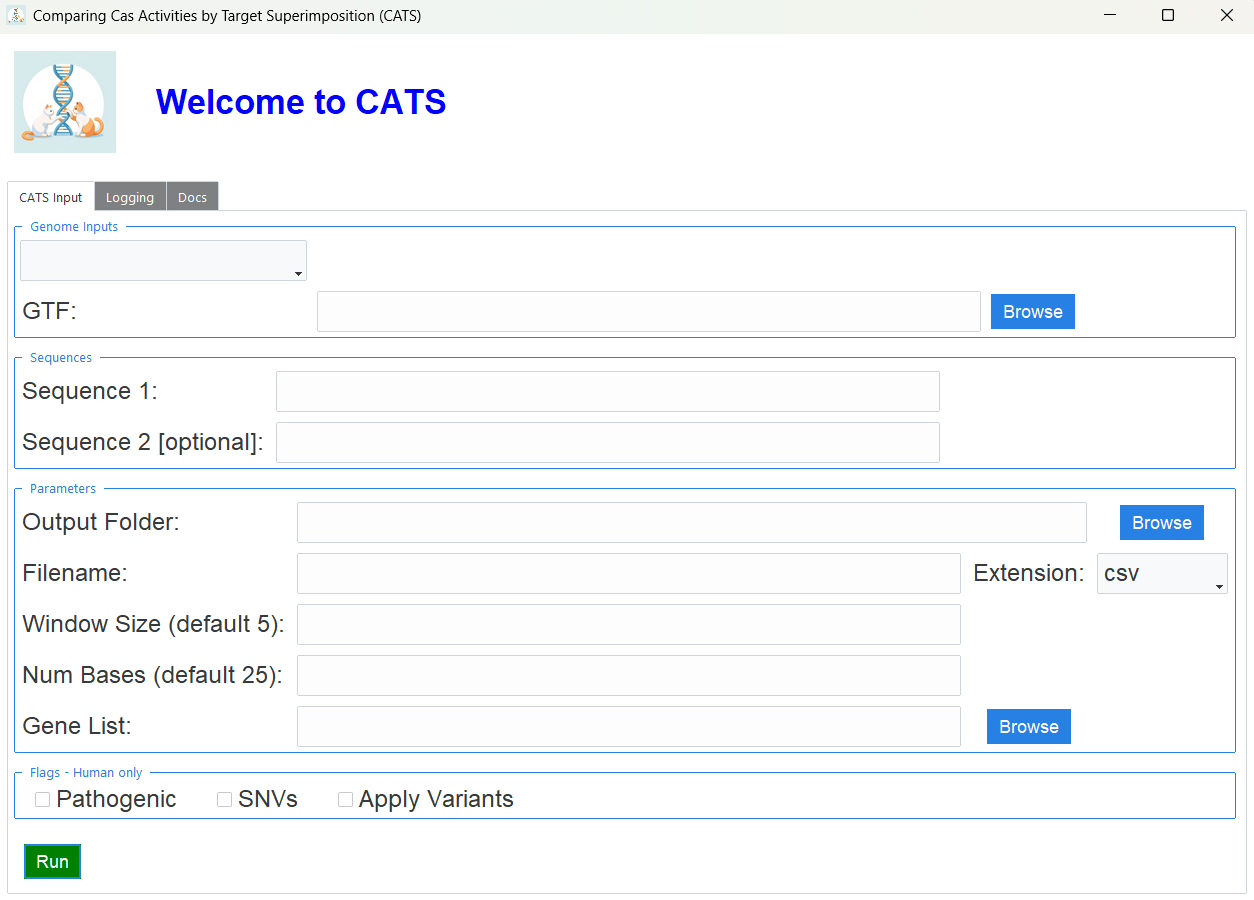
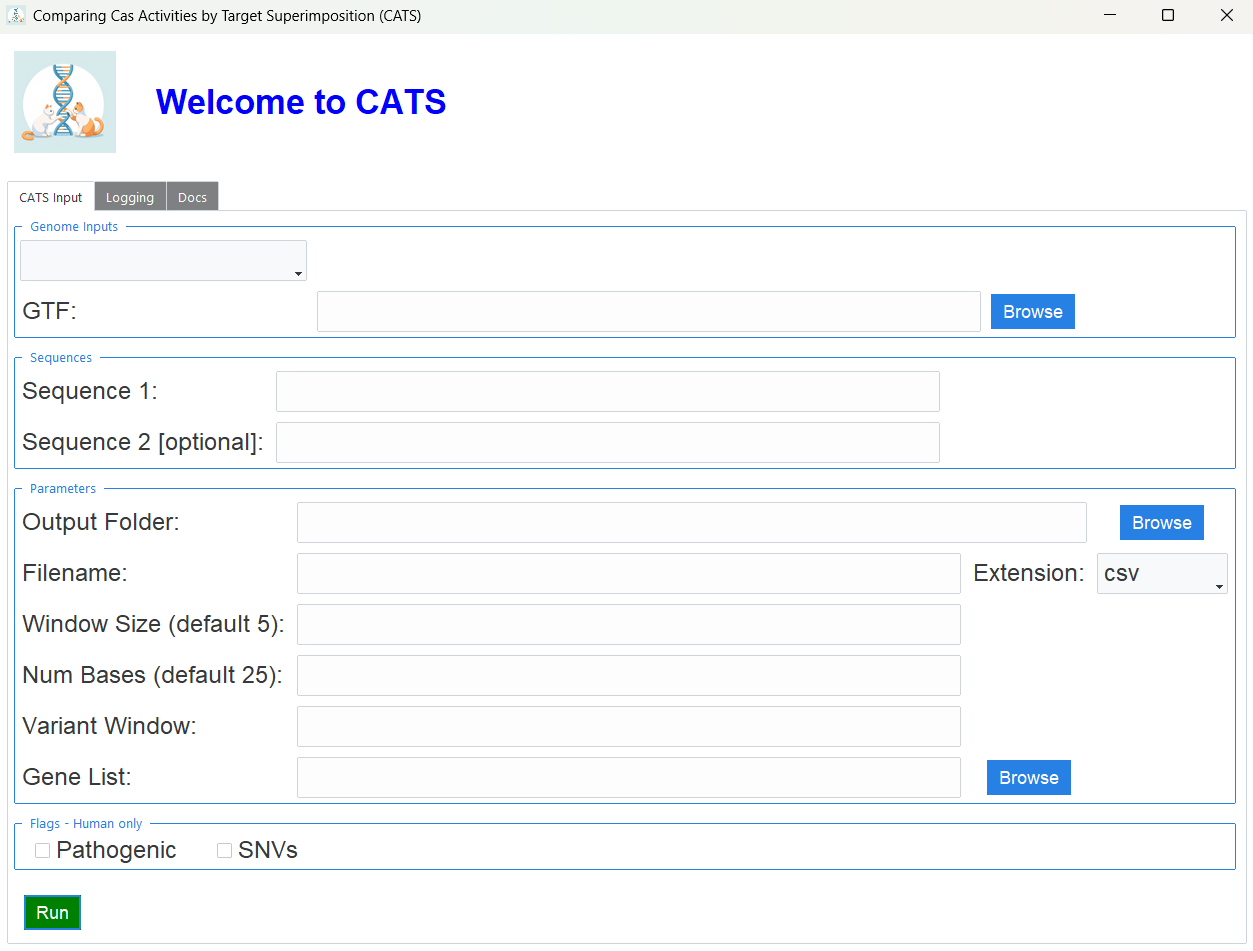
[docs] updated README

diff --git a/README.md b/README.md
@@ -49,16 +49,16 @@ CATS --help
 
 which will show this message:
 ```
-usage: CATS [-h] --fasta FASTA_FILE --seq1 SEQ1 [--seq2 SEQ2] --output OUTPUT [--window-size WINDOW_SIZE] [--num-bases NUM_BASES] [--gtf GTF_FILE] [--pathogenicity] [--single-nucleotide-variant]
-            [--gene-list GENE_LIST] [--apply-variants]
+usage: CATS [-h] --fasta FASTA_FILE --seq1 SEQ1 [--seq2 SEQ2] --output OUTPUT [--window-size WINDOW_SIZE] [--num-bases NUM_BASES] [--gtf GTF_FILE] [--pathogenicity]
+            [--single-nucleotide-variant] [--gene-list GENE_LIST] [--variant-window VARIANT_WINDOW]
 
 Parse a FASTA file and find sequences containing one (or two) specified sequences of interest.
 
 optional arguments:
   -h, --help            show this help message and exit
   --fasta FASTA_FILE, -f FASTA_FILE
-                        Path to the FASTA file or use 'human', 'mouse', 'human_pc' or 'mouse_pc' keyword to access corresponding transcripts
-  --seq1 SEQ1, -1 SEQ1  First sequence of interest
+                        Path to the FASTA file or use 'human', 'mouse', 'human_pc' or 'mouse_pc' keyword to access corresponding transcripts.
+  --seq1 SEQ1, -1 SEQ1  First sequence of interest.
   --seq2 SEQ2, -2 SEQ2  (Optional) Second sequence of interest. If omitted, only seq1 will be searched.
   --output OUTPUT, -o OUTPUT
                         Output file name. Possible extensions: 'csv', 'tsv'
@@ -73,8 +73,8 @@ optional arguments:
                         Retrieve only sequences associated with SNVs from ClinVar. Implies --pathogenicity.
   --gene-list GENE_LIST, -gl GENE_LIST
                         Path to a txt file containing a list of gene names to be analyzed, OR a semicolon-separated list of gene names (e.g. 'HBB;HTT').
-  --apply-variants, -av
-                        If set, creates a temporary FASTA file with sequences modified according to the variants. Implies --pathogenicity.
+  --variant-window VARIANT_WINDOW, -vw VARIANT_WINDOW
+                        Maximum distance between the mutation and the found PAM sequence. Implies --pathogenicity.
 ```
 
 ### GUI Usage